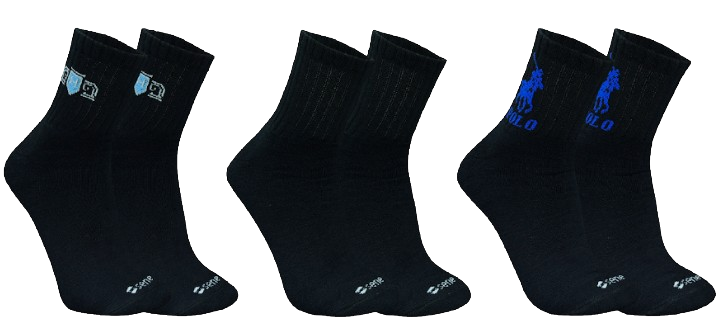
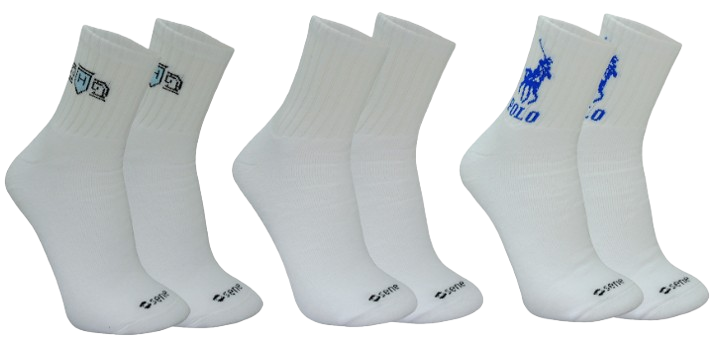
subindo

diff --git a/esportivaMasc.html b/esportivaMasc.html
@@ -167,20 +167,38 @@
                     </div>
                 </div>
 
-
-                <div class="Quadrado-da-meia-kit1-6a12" id="div-meia">
-                    <div class="container"> <img src="img-baby/kit1-desenhada6a12.png" alt="Kit 3 pares de meia">
+                <div class="Quadrado-da-meia-esportiva-kit02" id="div-meia">
+                    <div class="container"> <img src="img-masculino/masculinaEsportivaPretaKit02.png" alt="Meia leão">
                     </div>
                     <div class="informacoes-meia">
-                        <h3 class="Subtitulo">Meia Kids Desenhada Masculina - Kit 3 Pares</h3>
-                        <h3 class="numeracao">6 á 12 meses</h3>
-                        <div class="cores-kit-des-0a6">
-                            <div class="kit1Des6a12">
+                        <h3 class="Subtitulo">Meia Esportiva Masculina - Kit Nº2</h3>
+                        <h3 class="numeracao">39 á 43</h3>
+                        <div class="cores-branca-preta-cinza08">
+                            <div class="pretaKit02"></div>
+                            <div class="brancaKit02"></div>
+                            <div class="cinzaKit02"></div>
+                        </div>
+                    </div>
+                    <div class="preco-informacoes">
+                        <h3 class="preco">R$ 18,00</h3>
+                        <h3 class="texto-a-vista">Á Vista</h3>
+                        <button class="botao-euQuero">Eu Quero!</button>
+                    </div>
+                </div>
+
+                <div class="Quadrado-da-meia-esportiva-cano-curto-kit" id="div-meia">
+                    <div class="container"> <img src="img-masculino/masculinaEsportivaCanoCurtoKit3Pares.png" alt="Kit 3 pares de meia">
+                    </div>
+                    <div class="informacoes-meia">
+                        <h3 class="Subtitulo">Meia Esportiva Cano Curto Masculina - Kit Nº1</h3>
+                        <h3 class="numeracao">39 á 43</h3>
+                        <div class="cores-branca-preta-cinza09">
+                            <div class="kitTresCores">
                                 <p>1</p>
                             </div>
-                            <div class="kit2Des6a12">
-                                <p>2</p>
-                            </div>
+                            <div class="brancaCurtoKit"></div>
+                            <div class="pretaCurtoKit"></div>
+                            <div class="cinzaCurtoKit"></div>
                         </div>
                     </div>
                     <div class="preco-informacoes">
@@ -307,9 +325,16 @@
                 pretaCurto: 'img-masculino/masculinaEsportivaCanoCurtoPretaLisa.png',
                 cinzaCurto: 'img-masculino/masculinaEsportivaCanoCurtoCinzaLisa.png'
             },
-            'Quadrado-da-meia-kit1-6a12': {
-                kit1Des6a12: 'img-baby/kit1-desenhada6a12.png',
-                kit2Des6a12: 'img-baby/kit2-desenhada6a12.png'
+            'Quadrado-da-meia-esportiva-kit02': {
+                brancaKit02: 'img-masculino/masculinaEsportivaBrancaKit02.png',
+                pretaKit02: 'img-masculino/masculinaEsportivaPretaKit02.png',
+                cinzaKit02: 'img-masculino/masculinaEsportivaCinzaKit02.png'
+            },
+            'Quadrado-da-meia-esportiva-cano-curto-kit': {
+                brancaCurtoKit: 'img-masculino/masculinaEsportivaCanoCurtoBrancaKit3Pares.png',
+                pretaCurtoKit: 'img-masculino/masculinaEsportivaCanoCurtoPretaKit3Pares.png',
+                cinzaCurtoKit: 'img-masculino/masculinaEsportivaCanoCurtoCinzaKit3Pares.png',
+                kitTresCores: 'img-masculino/masculinaEsportivaCanoCurtoKit3Pares.png'
             },
         };
 
@@ -318,7 +343,7 @@
             const imgMeia = quadrado.querySelector('img');
 
             // Seleciona todas as cores disponíveis para o quadrado atual
-            const cores = quadrado.querySelectorAll('.brancaLisa, .pretaLisa, .cinzaLisa, .brancaHorse, .pretaHorse, .cinzaHorse, .brancaS, .pretaS, .cinzaS, .brancaPolo, .pretaPolo, .cinzaPolo, .brancaAreo, .pretaAero, .cinzaAero, .brancaKit01, .pretaKit01, .cinzaKit01, .brancaCurto, .pretaCurto, .cinzaCurto');
+            const cores = quadrado.querySelectorAll('.brancaLisa, .pretaLisa, .cinzaLisa, .brancaHorse, .pretaHorse, .cinzaHorse, .brancaS, .pretaS, .cinzaS, .brancaPolo, .pretaPolo, .cinzaPolo, .brancaAreo, .pretaAero, .cinzaAero, .brancaKit01, .pretaKit01, .cinzaKit01, .brancaCurto, .pretaCurto, .cinzaCurto, .brancaKit02, .pretaKit02, .cinzaKit02, .brancaCurtoKit, .pretaCurtoKit, .cinzaCurtoKit, .kitTresCores');
 
             // Obtém o nome da classe do quadrado (primeiro nome de classe)
             const quadradoId = quadrado.className.split(' ')[0];
@@ -368,10 +393,10 @@
 
         });
 
-        document.querySelectorAll('.cores-branca-preta-cinza div, .cores-branca-preta-cinza02 div, .cores-branca-preta-cinza03 div, .cores-branca-preta-cinza04 div, .cores-branca-preta-cinza05 div, .cores-branca-preta-cinza06 div, .cores-branca-preta-cinza07 div').forEach(cor => {
+        document.querySelectorAll('.cores-branca-preta-cinza div, .cores-branca-preta-cinza02 div, .cores-branca-preta-cinza03 div, .cores-branca-preta-cinza04 div, .cores-branca-preta-cinza05 div, .cores-branca-preta-cinza06 div, .cores-branca-preta-cinza07 div, .cores-branca-preta-cinza08 div, .cores-branca-preta-cinza09 div').forEach(cor => {
             cor.addEventListener('click', function () {
                 // Remove a borda de qualquer cor previamente selecionada em todos os grupos de cores
-                document.querySelectorAll('.cores-branca-preta-cinza div, .cores-branca-preta-cinza02 div, .cores-branca-preta-cinza03 div, .cores-branca-preta-cinza04 div, .cores-branca-preta-cinza05 div, .cores-branca-preta-cinza06 div, .cores-branca-preta-cinza07 div').forEach(c => {
+                document.querySelectorAll('.cores-branca-preta-cinza div, .cores-branca-preta-cinza02 div, .cores-branca-preta-cinza03 div, .cores-branca-preta-cinza04 div, .cores-branca-preta-cinza05 div, .cores-branca-preta-cinza06 div, .cores-branca-preta-cinza07 div, .cores-branca-preta-cinza08 div, .cores-branca-preta-cinza09 div').forEach(c => {
                     c.classList.remove('selected');
                 });
 

diff --git a/esportvaMasc.css b/esportvaMasc.css
@@ -109,7 +109,8 @@ a {
 .cores-branca-preta-cinza05,
 .cores-branca-preta-cinza06,
 .cores-branca-preta-cinza07,
-.cores-kit-des-6a12 {
+.cores-branca-preta-cinza08,
+.cores-branca-preta-cinza09 {
     display: flex;
     gap: 1vh;
     margin-top: 0.75vh;
@@ -121,25 +122,28 @@ a {
 .pretaPolo,
 .pretaAero,
 .pretaKit01,
+.pretaKit02,
 .pretaCurto,
+.pretaCurtoKit,
 .cinzaLisa,
 .cinzaHorse, 
 .cinzaS,
 .cinzaPolo,
 .cinzaAero,
 .cinzaKit01,
+.cinzaKit02,
 .cinzaCurto,
+.cinzaCurtoKit,
 .brancaLisa,
 .brancaHorse,
 .brancaS,
 .brancaPolo,
 .brancaAero,
 .brancaKit01,
+.brancaKit02,
 .brancaCurto,
-.kit1Des0a6,
-.kit2Des0a6,
-.kit1Des6a12,
-.kit2Des6a12  {
+.brancaCurtoKit,
+.kitTresCores {
     width: 5vh;
     height: 5vh;
     border-radius: 50%;
@@ -152,7 +156,9 @@ a {
 .brancaAero,
 .brancaPolo,
 .brancaKit01,
+.brancaKit02,
 .brancaCurto,
+.brancaCurtoKit,
 .brancaKit {
     background-color: #ffffff;
     border: 1px solid #76767688;
@@ -164,6 +170,8 @@ a {
 .pretaAero,
 .pretaPolo,
 .pretaKit01,
+.pretaKit02,
+.pretaCurtoKit,
 .pretaCurto,
 .pretaKit {
     background-color: #000000;
@@ -174,13 +182,14 @@ a {
 .cinzaS,
 .cinzaAero,
 .cinzaKit01,
+.cinzaKit02,
 .cinzaCurto,
+.cinzaCurtoKit,
 .cinzaPolo {
     background-color: #96A6B5;
 }
 
-.kit1Des0a6, .kit2Des0a6, .kit2Des6a12, .kit1Des6a12{
-    /* background: linear-gradient(to right, #07D90A 33%, #96A6B5 33%, #96A6B5 66%, #8FC1EF 66%) */
+.kitTresCores {
     background-color: #ffffff;
     border: 1px solid #76767688;
     display: flex;
@@ -188,20 +197,15 @@ a {
     justify-content: center;
 }
 
-.kit1Des0a6 p, .kit2Des0a6 p, .kit1Des6a12 p, .kit2Des6a12{
+.kitTresCores p {
     font: 400 16px 'WorkSans', sans-serif;
 }
-
 
 .parte2{
     display: flex;
     justify-content: center;
     gap: 20vh;
     flex-wrap: wrap;
-}
-
-.Quadrado-da-meia-kit1-0a6, .Quadrado-da-meia-kit1-6a12{
-    margin: 0 50px;
 }
 
 /* arrumando as imagens das meias cano curto */
@@ -222,9 +226,8 @@ a {
 }
 
 .Quadrado-da-meia-esportiva-kit01 img,
-.Quadrado-da-meia-kit2-0a6 img,
-.Quadrado-da-meia-kit1-6a12 img,
-.Quadrado-da-meia-kit2-6a12 img {
+.Quadrado-da-meia-esportiva-kit02 img,
+.Quadrado-da-meia-esportiva-cano-curto-kit img {
     width: 320px;
     height: 150px;
     margin: 45px 30px;
